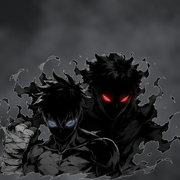
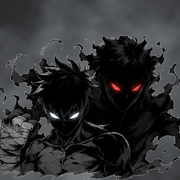
Ícono: ojos rasgados, personajes más grandes, neblina un tono más clara
Claude-Session: https://claude.ai/code/session_014cUX87EDqZ9zQEPwB8aYGo

diff --git a/public/sw.js b/public/sw.js
@@ -1,5 +1,5 @@
 // Service worker: funciona sin conexión (caché) y muestra las notificaciones push.
-const CACHE = 'pd-v103';
+const CACHE = 'pd-v104';
 const SHELL = ['/', '/index.html', '/app.js', '/rise.js', '/resumen.js', '/phrases.js', '/style.css', '/assets.js', '/manifest.webmanifest', '/icon-180.png', '/icon-192.png', '/icon-512.png', '/img/ambiente_bano.png', '/img/ambiente_cocina.png', '/img/ambiente_habitacion.png', '/img/ambiente_living.png', '/img/ambiente_oficina.png', '/img/ambiente_patio.png', '/img/icono_agua.png', '/img/icono_comida.png', '/img/icono_disciplina.png', '/img/icono_fuerza.png', '/img/icono_inteligencia.png', '/img/icono_juegos.png', '/img/icono_logro.png', '/img/icono_orden.png', '/img/icono_titulo.png', '/img/icono_vitalidad.png', '/img/sombra_bestia.png', '/img/sombra_gym.png', '/img/sombra_heroe.png'];
 
 self.addEventListener('install', e => { e.waitUntil(caches.open(CACHE).then(c => c.addAll(SHELL)).then(() => self.skipWaiting())); });
